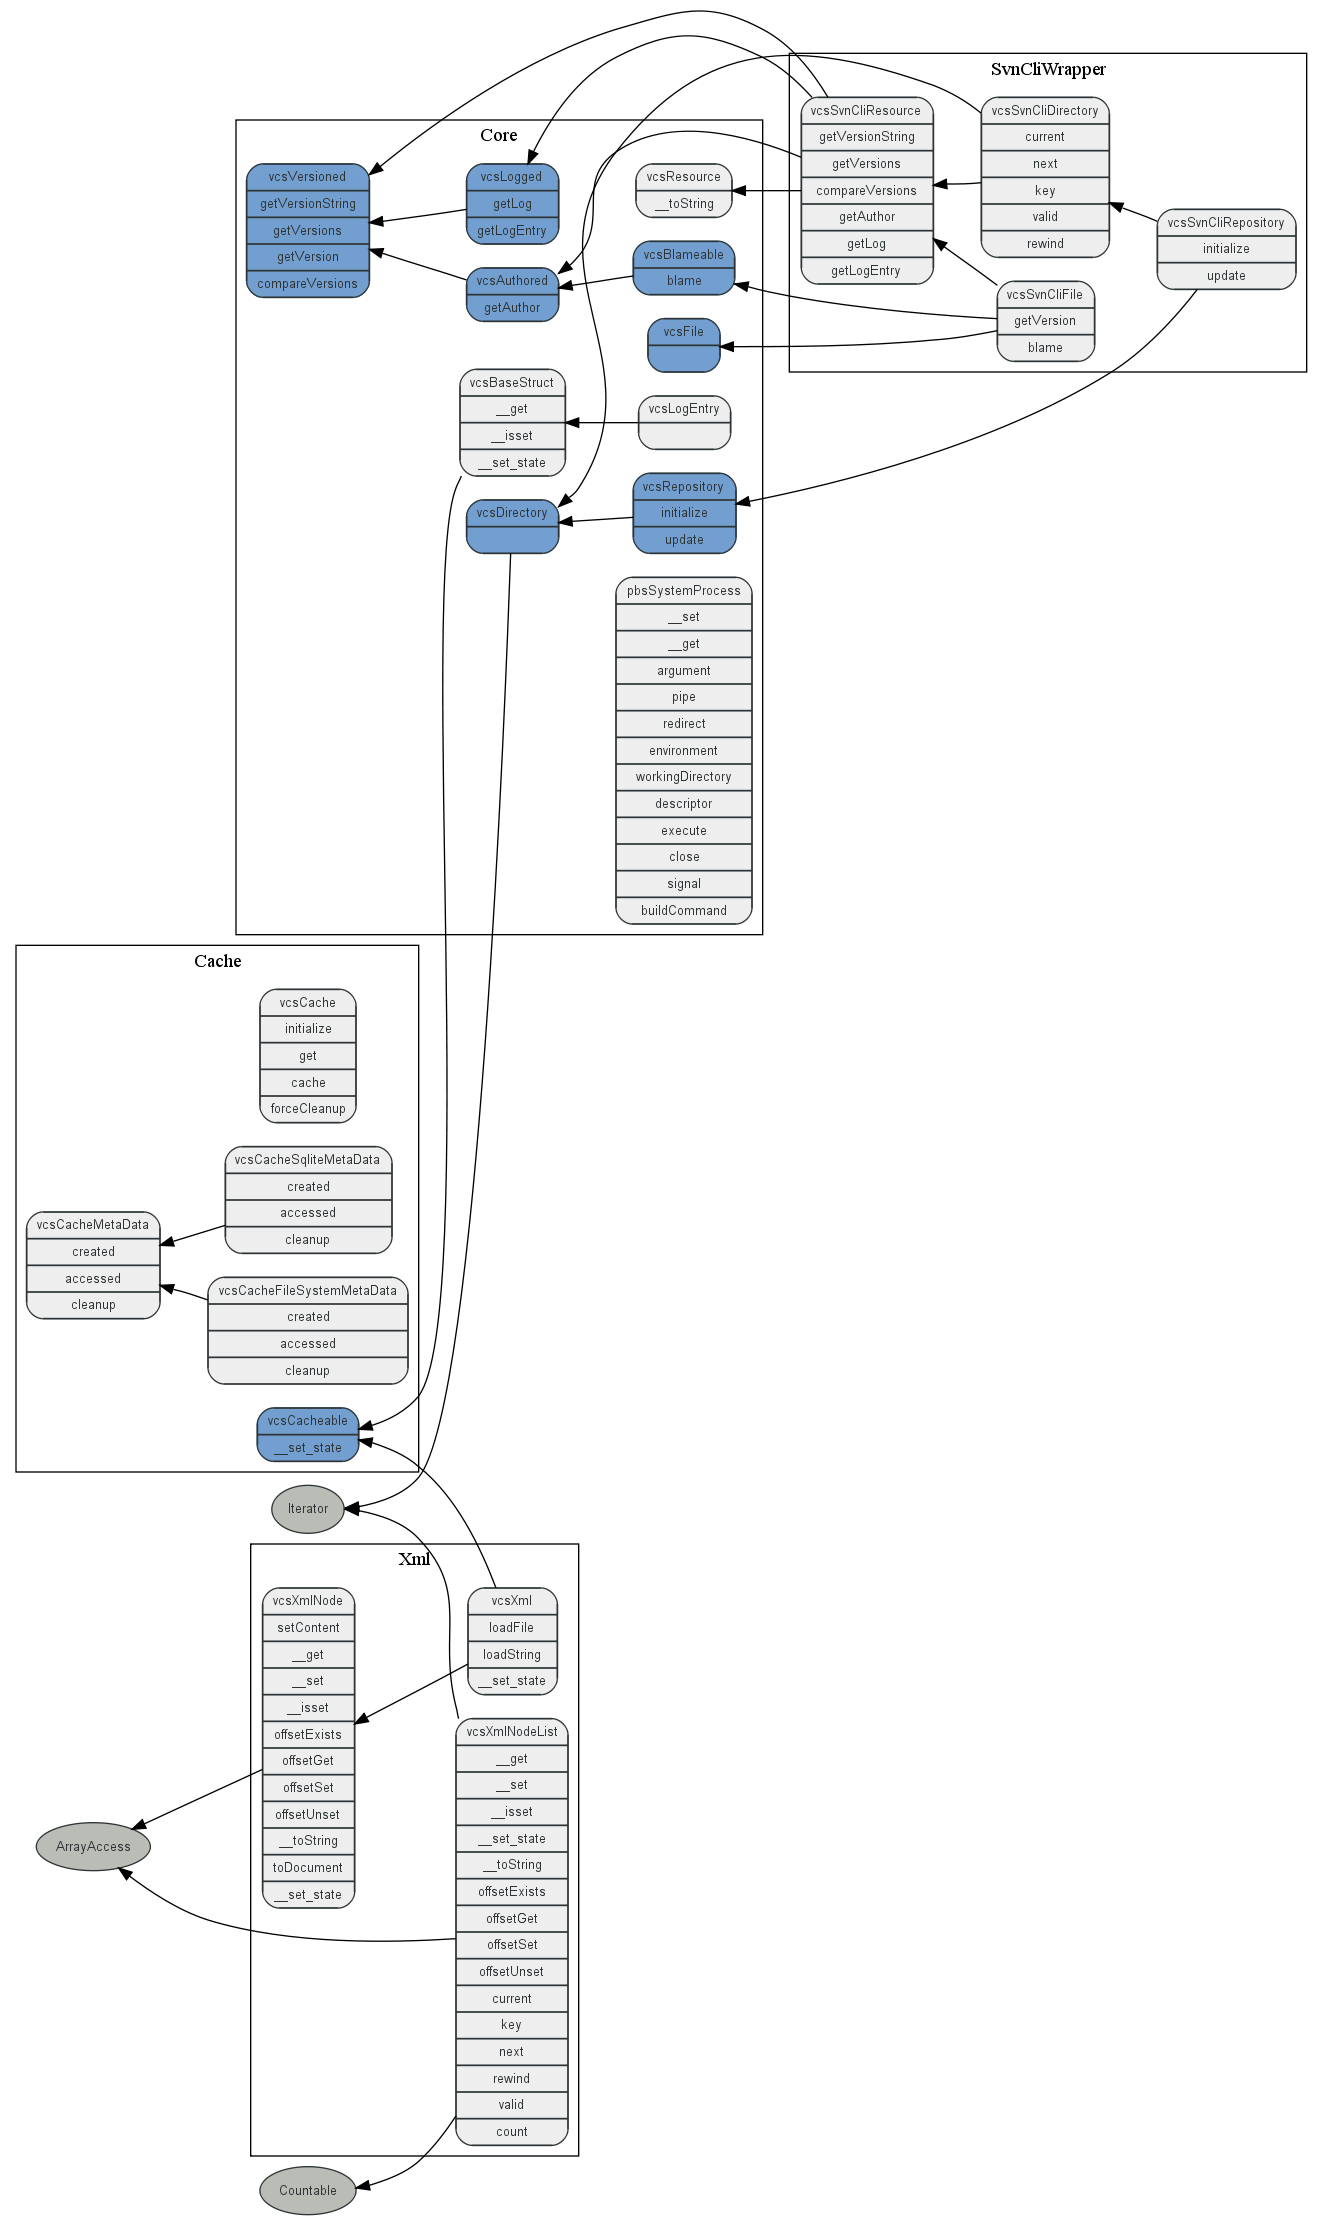
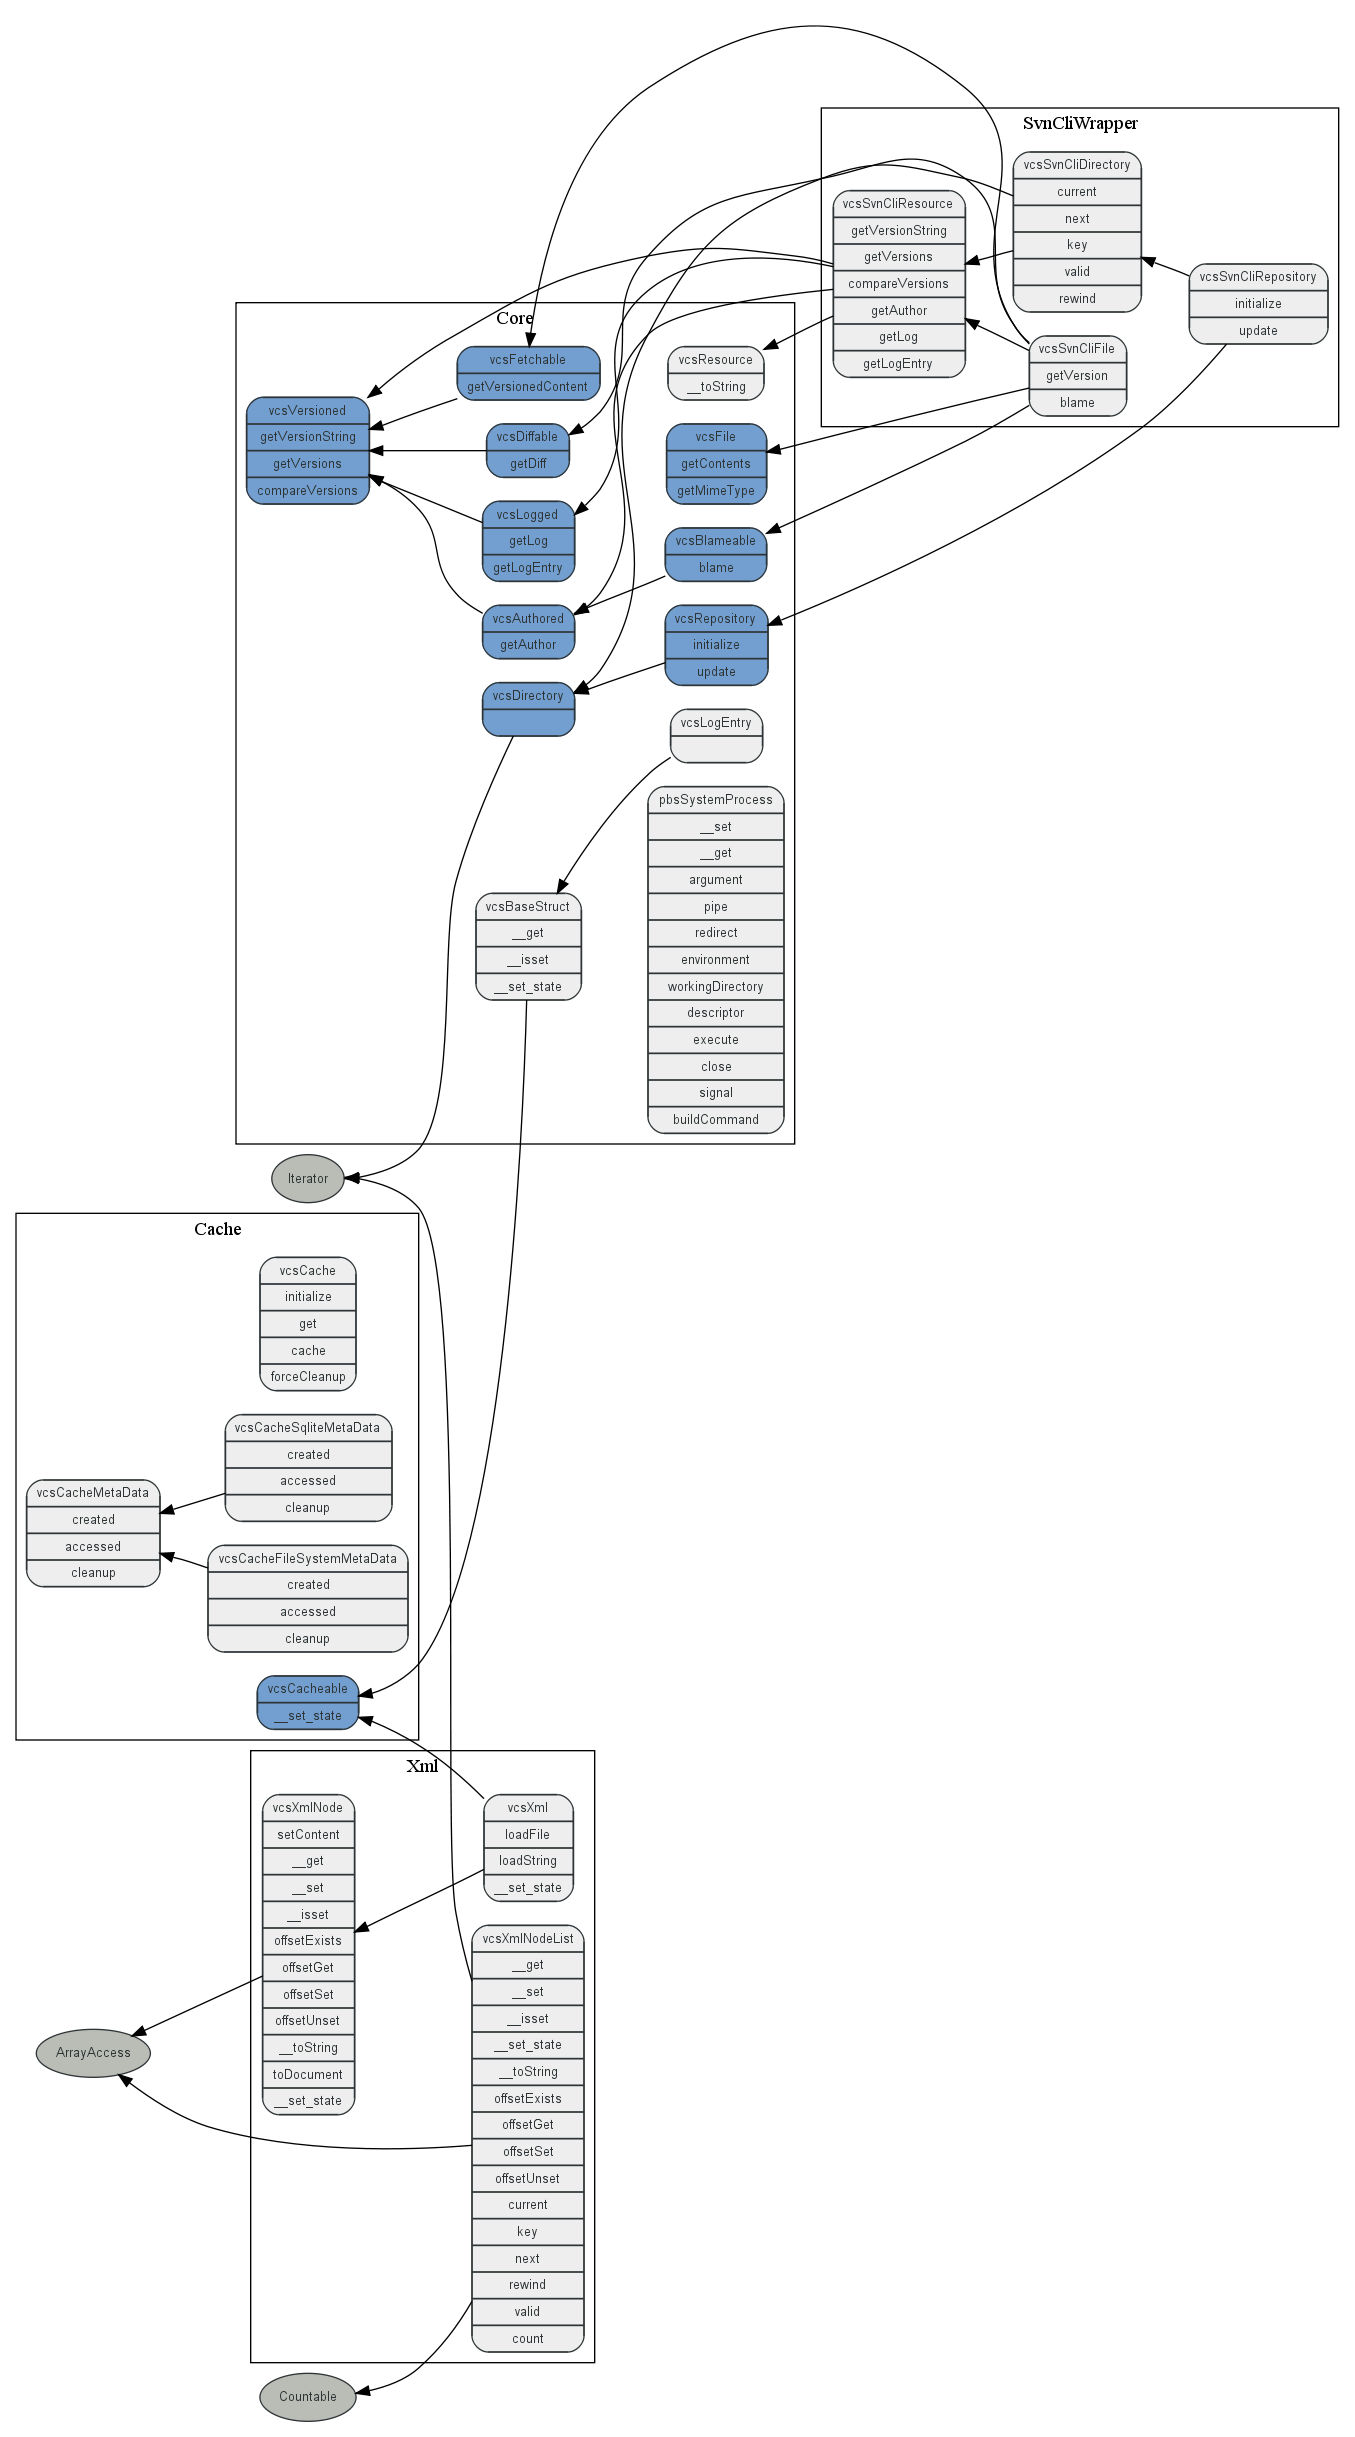
- Implemented: Some more funny interfaces dancing on the VCS floor.

diff --git a/src/classes/interfaces/diffable.php b/src/classes/interfaces/diffable.php
@@ -1,6 +1,6 @@
 <?php
 /**
- * PHP VCS wrapper abstract file base class
+ * PHP VCS wrapper diffable interface
  *
  * This file is part of vcs-wrapper.
  *
@@ -19,37 +19,29 @@
  *
  * @package VCSWrapper
  * @subpackage Core
- * @version $Revision$
+ * @version $Revision: 10 $
  * @license http://www.gnu.org/licenses/lgpl-3.0.txt LGPLv3
  */
 
 /*
- * Base class for files in the VCS wrapper.
+ * Interface for versioned resources which can be diffed with other versions
  *
- * This class should be extended by the various wrappers to represent
- * files in the respective VCS. In the wrapper implementations this base
- * class should be extended with interfaces annotating the VCS features beside
- * basic file iteration.
+ * This interface should be implemented for VCS by resources which can compute
+ * a diff between different versions of the given VCS.
  */
-interface vcsFile
+interface vcsDiffable extends vcsVersioned
 {
     /**
-     * Get file contents
-     * 
-     * Get the contents of the current file.
-     * 
-     * @return string
+     * Get diff
+     *
+     * Get the diff between the current version and the given version.
+     * Optionally you may specify another version then the current one as the
+     * diff base as the second parameter.
+     *
+     * @param string $version 
+     * @param string $current 
+     * @return vcsResource
      */
-    public function getContents();
-
-    /**
-     * Get mime type
-     * 
-     * Get the mime type of the current file. If this information is not
-     * available, just return 'application/octet-stream'.
-     * 
-     * @return string
-     */
-    public function getMimeType();
+    public function getDiff( $version, $current = null );
 }
 

diff --git a/src/classes/interfaces/fetchable.php b/src/classes/interfaces/fetchable.php
@@ -1,6 +1,6 @@
 <?php
 /**
- * PHP VCS wrapper abstract file base class
+ * PHP VCS wrapper fetchable interface
  *
  * This file is part of vcs-wrapper.
  *
@@ -19,37 +19,26 @@
  *
  * @package VCSWrapper
  * @subpackage Core
- * @version $Revision$
+ * @version $Revision: 10 $
  * @license http://www.gnu.org/licenses/lgpl-3.0.txt LGPLv3
  */
 
 /*
- * Base class for files in the VCS wrapper.
+ * Interface for versioned resources which can be fetched from earlier versions
  *
- * This class should be extended by the various wrappers to represent
- * files in the respective VCS. In the wrapper implementations this base
- * class should be extended with interfaces annotating the VCS features beside
- * basic file iteration.
+ * This implemented should be implemented by VCS for resources, which can be
+ * fetched in earlier revisions then the current revision.
  */
-interface vcsFile
+interface vcsFetchable extends vcsVersioned
 {
     /**
-     * Get file contents
-     * 
-     * Get the contents of the current file.
-     * 
+     * Get content for version
+     *
+     * Get the contents of the current resource in the specified version.
+     *
+     * @param string $version 
      * @return string
      */
-    public function getContents();
-
-    /**
-     * Get mime type
-     * 
-     * Get the mime type of the current file. If this information is not
-     * available, just return 'application/octet-stream'.
-     * 
-     * @return string
-     */
-    public function getMimeType();
+    public function getVersionedContent( $version );
 }
 

diff --git a/src/classes/wrapper/svn-cli/file.php b/src/classes/wrapper/svn-cli/file.php
@@ -26,12 +26,19 @@
 /*
  * File implementation vor SVN Cli wrapper
  */
-class vcsSvnCliFile extends vcsSvnCliResource implements vcsFile, vcsBlameable
+class vcsSvnCliFile extends vcsSvnCliResource implements vcsFile, vcsBlameable, vcsFetchable, vcsDiffable
 {
     /**
      * @inheritdoc
      */
-    public function getVersion( $version )
+    public function getContents()
+    {
+    }
+
+    /**
+     * @inheritdoc
+     */
+    public function getMimeType()
     {
     }
 
@@ -39,6 +46,20 @@ class vcsSvnCliFile extends vcsSvnCliResource implements vcsFile, vcsBlameable
      * @inheritdoc
      */
     public function blame( $version = null )
+    {
+    }
+
+    /**
+     * @inheritdoc
+     */
+    public function getVersionedContent( $version )
+    {
+    }
+
+    /**
+     * @inheritdoc
+     */
+    public function getDiff( $version, $current = null )
     {
     }
 }

diff --git a/src/classes/autoload.php b/src/classes/autoload.php
@@ -52,6 +52,8 @@ return array(
     'vcsSvnCliResource'                         => 'classes/wrapper/svn-cli/resource.php',
     'vcsFile'                                   => 'classes/interfaces/file.php',
     'vcsBlameable'                              => 'classes/interfaces/blameable.php',
+    'vcsFetchable'                              => 'classes/interfaces/fetchable.php',
+    'vcsDiffable'                               => 'classes/interfaces/diffable.php',
     'vcsSvnCliFile'                             => 'classes/wrapper/svn-cli/file.php',
     'vcsDirectory'                              => 'classes/interfaces/directory.php',
     'vcsSvnCliDirectory'                        => 'classes/wrapper/svn-cli/directory.php',

diff --git a/src/classes/interfaces/versioned.php b/src/classes/interfaces/versioned.php
@@ -53,17 +53,6 @@ interface vcsVersioned
     public function getVersions();
 
     /**
-     * Get version of resource
-     *
-     * Get the current resource in the given version. Will throw an exception
-     * if the resource is not available in the given version.
-     *
-     * @param string $version 
-     * @return vcsResource
-     */
-    public function getVersion( $version );
-
-    /**
      * Compare two version strings
      *
      * If $version1 is lower then $version2, an integer < 0, will be returned.
